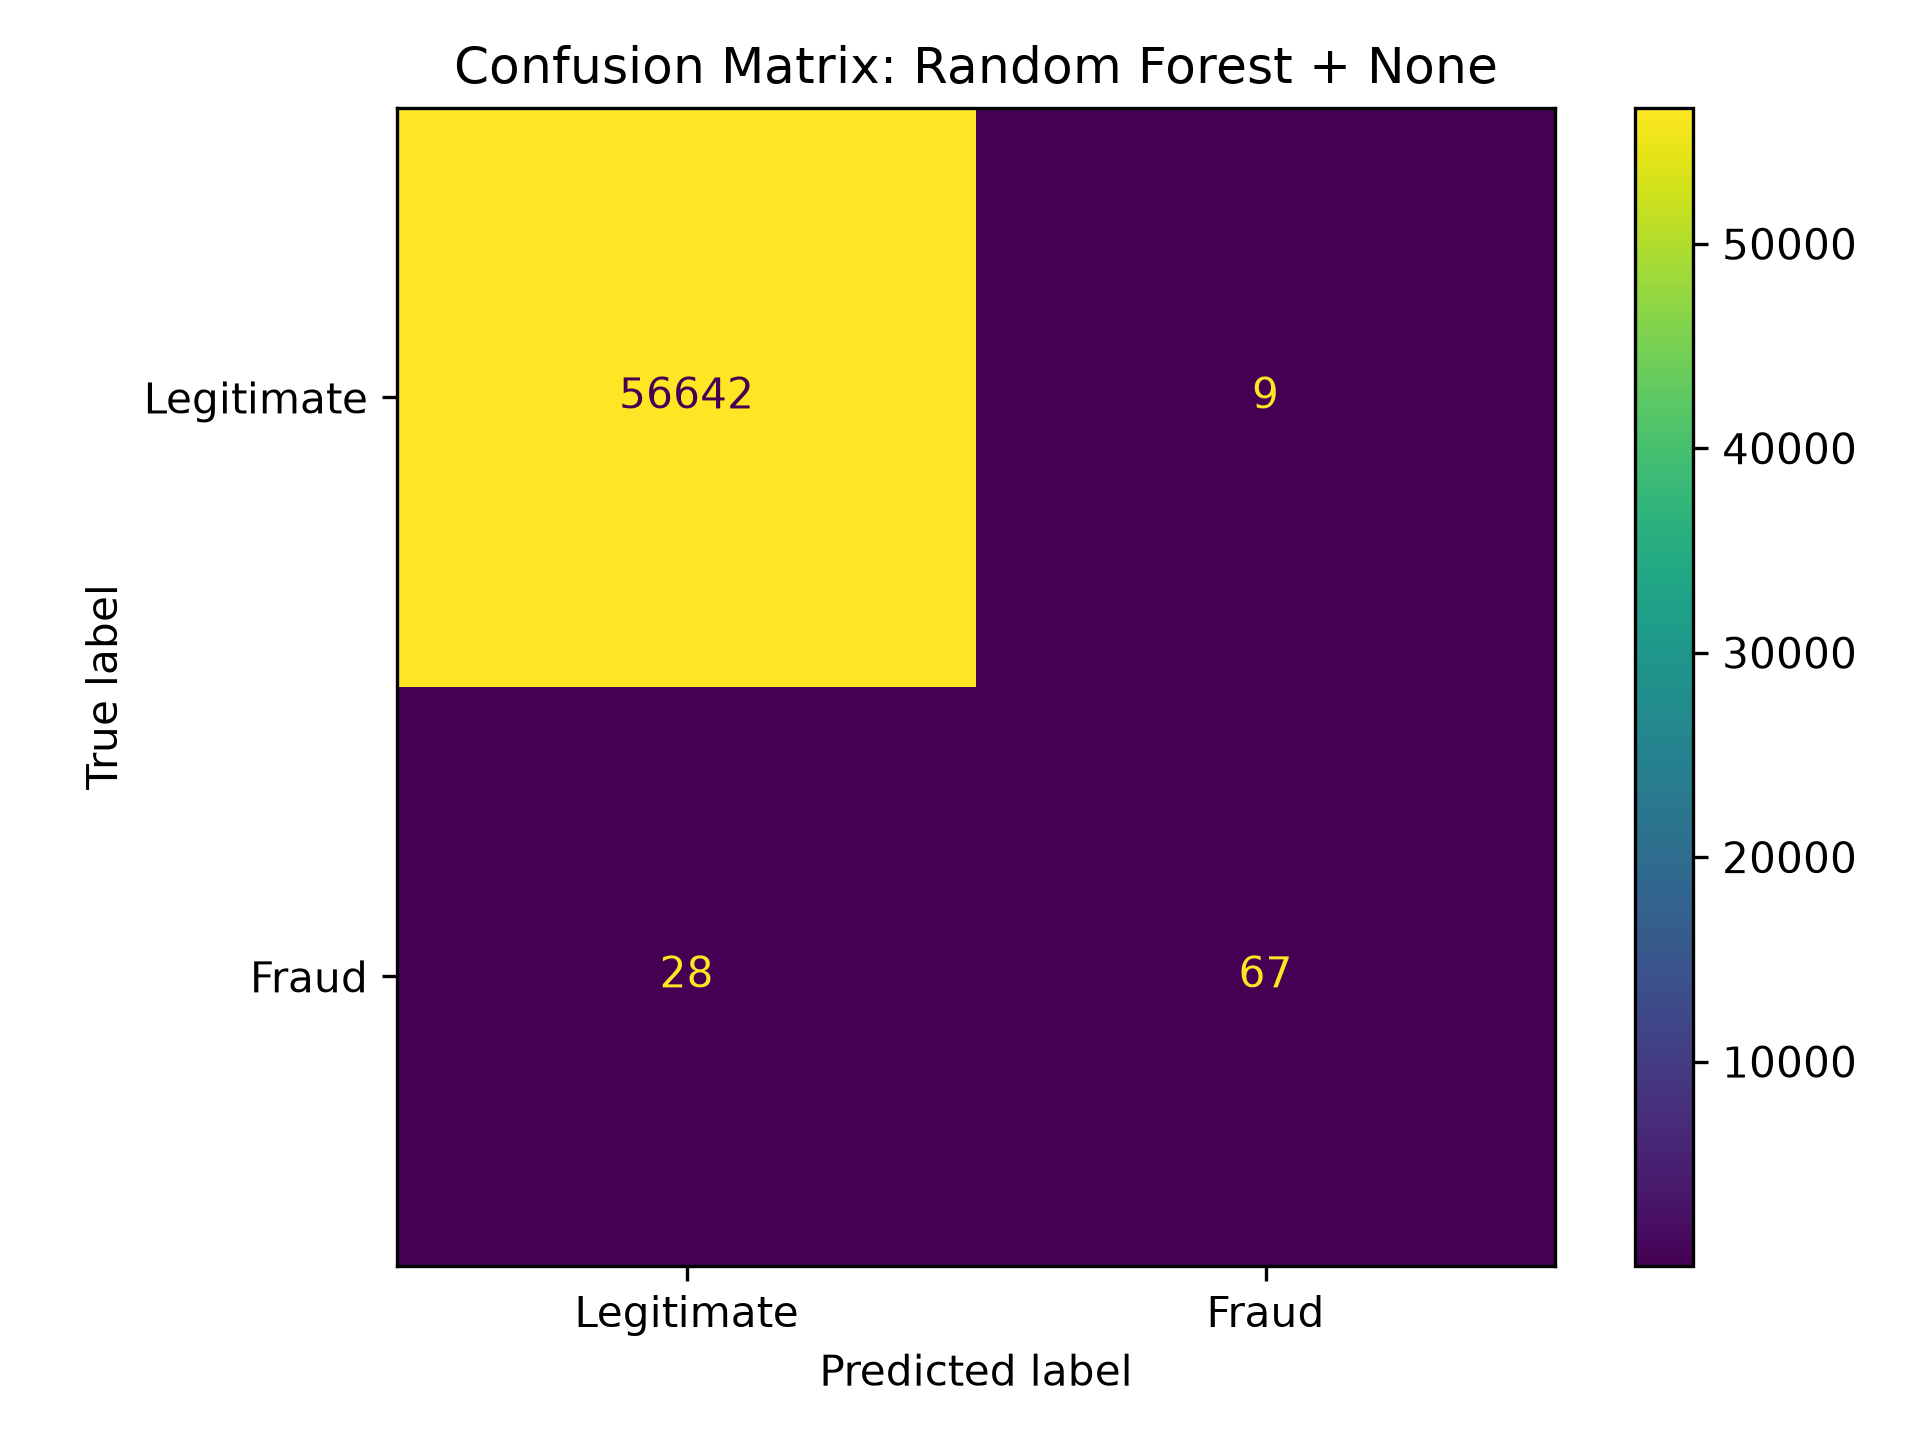
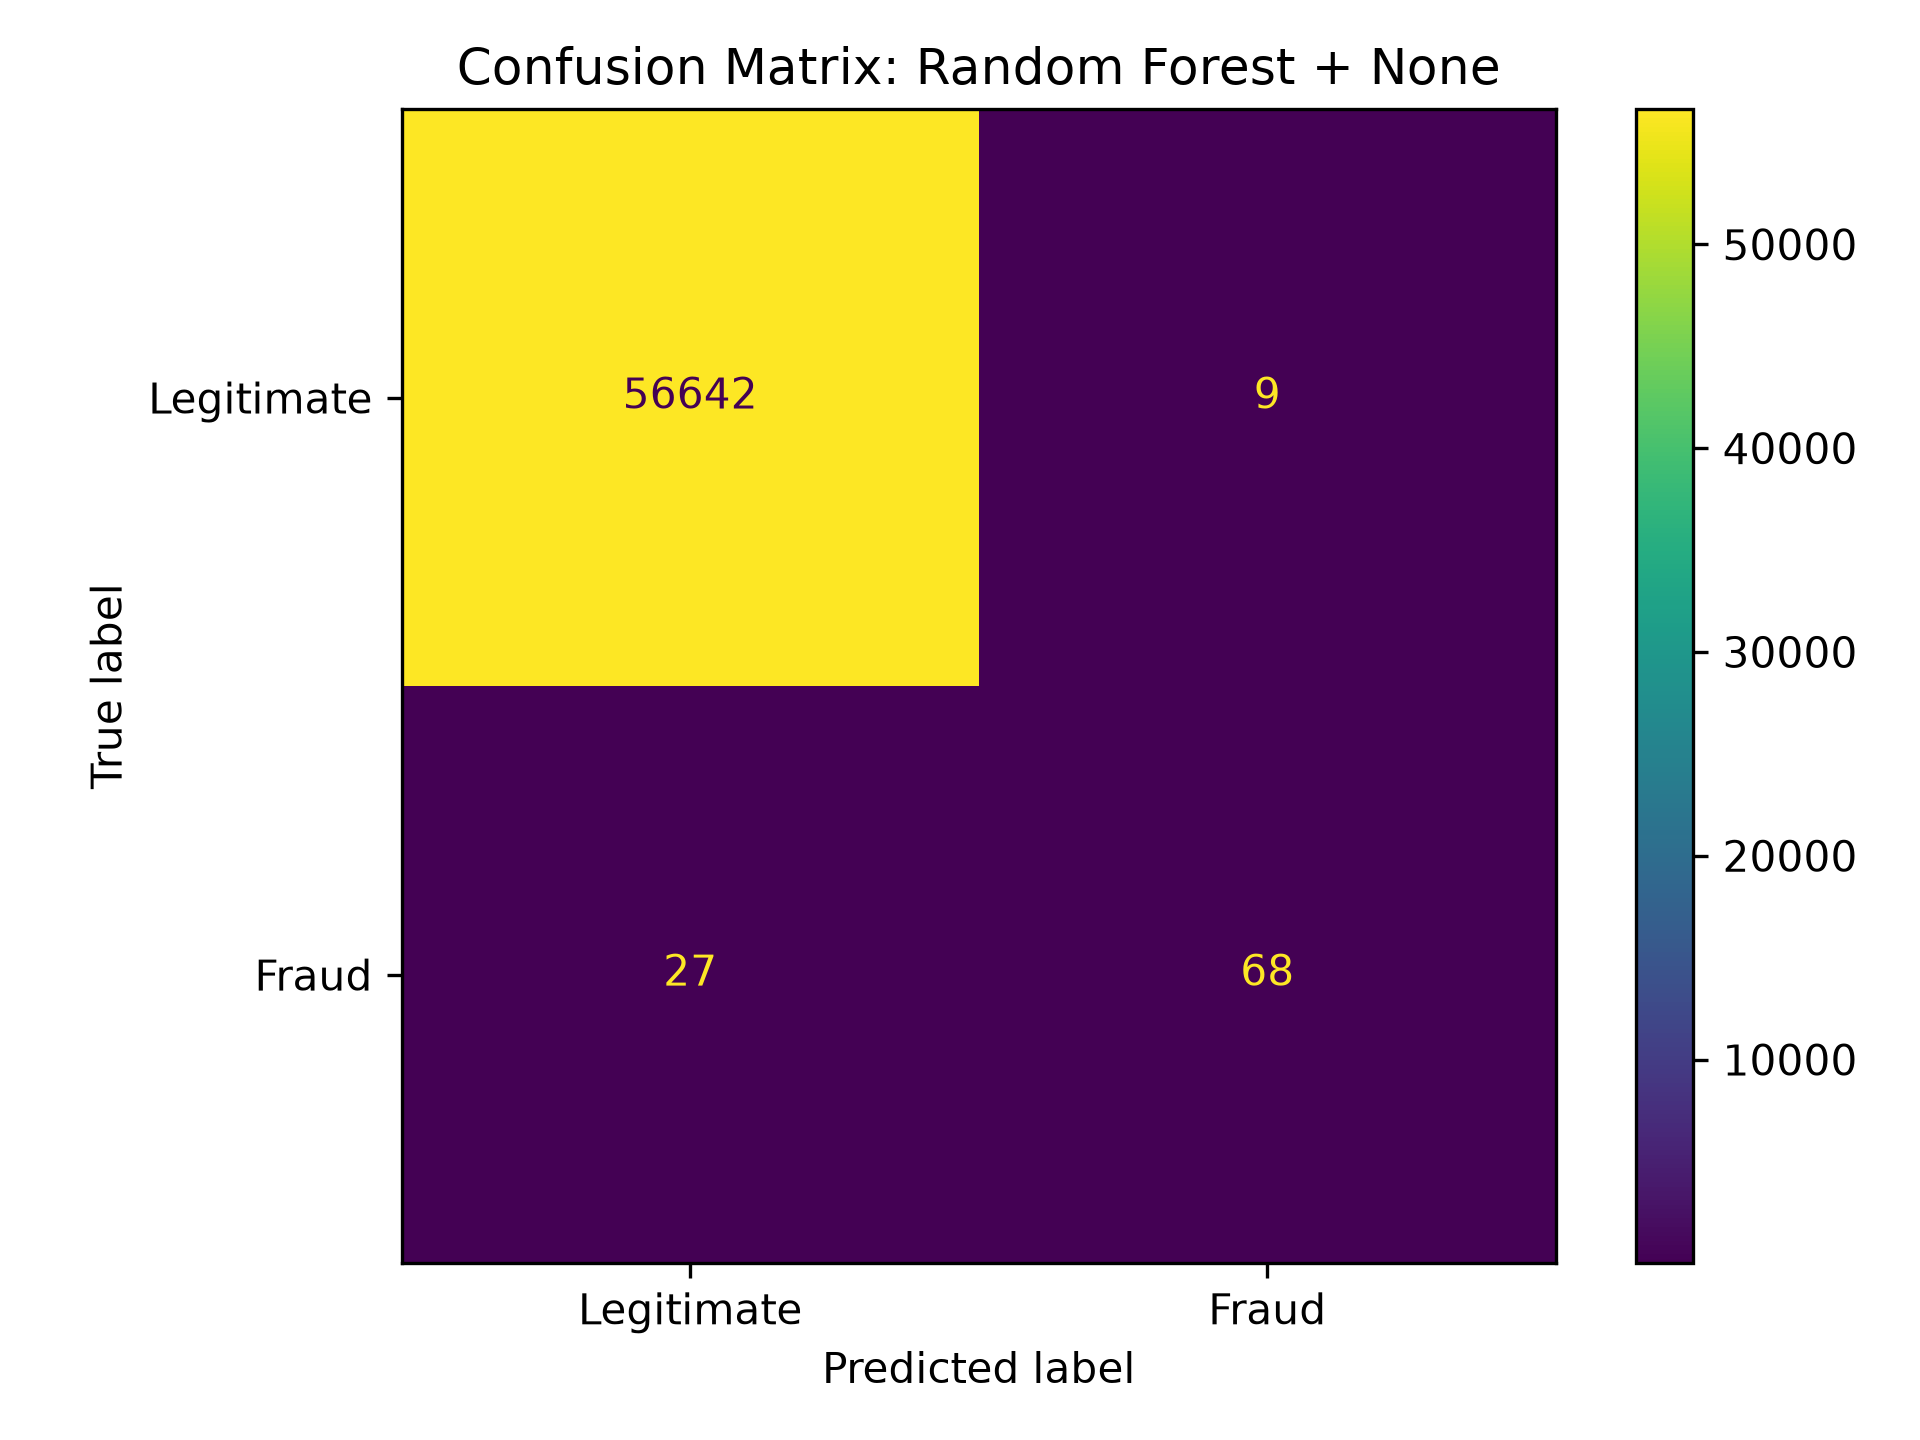
Audit fixes: RF confusion matrix uses max_depth=10 (68/27), README structure and app docs, VQC run-variation note, Findings counts derived from shown metrics

diff --git a/app/frontend/src/pages/Findings.tsx b/app/frontend/src/pages/Findings.tsx
@@ -47,8 +47,19 @@ export default function Findings() {
   const qv = data?.qsvm_vs_vqc.rows ?? [];
 
   const row = cq.find((r) => r["Model"] === model && r["Balancing"] === balancing);
-  const counts = cb.find((r) => r["Model"] === model && r["Balancing"] === balancing && String(r["Threshold"]).startsWith("Default"));
-  const noneCounts = cb.find((r) => r["Model"] === model && r["Balancing"] === "None" && String(r["Threshold"]).startsWith("Default"));
+  // Plain-number counts are derived from the same precision/recall the bars show, so the sentence can never
+  // disagree with them (the cost table's probability-thresholded counts differ by one for the SVM).
+  const anyCount = cb[0];
+  const positives = anyCount ? num(anyCount["TP"]) + num(anyCount["FN"]) : 0;
+  const negatives = anyCount ? num(anyCount["FP"]) + num(anyCount["TN"]) : 0;
+  const counts = (bal: string) => {
+    const r = cq.find((x) => x["Model"] === model && x["Balancing"] === bal);
+    if (!r || !positives || num(r["Precision"]) <= 0) return null;
+    const tp = Math.round(num(r["Recall"]) * positives);
+    return { tp, fn: positives - tp, fp: Math.round(tp * (1 / num(r["Precision"]) - 1)) };
+  };
+  const c = counts(balancing);
+  const cNone = counts("None");
 
   const headline = useMemo(() => {
     const best = (name: string) => Math.max(...cq.filter((r) => r["Model"] === name).map((r) => num(r["F1 Score"])), 0);
@@ -121,14 +132,14 @@ export default function Findings() {
                     { label: "ROC AUC", hint: "How well it ranks fraud above legitimate, whatever the cut-off.", value: num(row["ROC AUC"]) },
                   ]} />
                 )}
-                {counts && (
+                {c && (
                   <p className="story">
                     {MODELS.find((m) => m.value === model)?.label}, {BALANCING_TEXT[balancing]}: out of{" "}
-                    <strong>{num(counts["TP"]) + num(counts["FN"])}</strong> real frauds it caught <strong className="good">{num(counts["TP"])}</strong> and
-                    missed <strong className="bad">{num(counts["FN"])}</strong>. It also raised <strong>{num(counts["FP"]).toLocaleString("en-US")}</strong> false
-                    alarms on {(num(counts["FP"]) + num(counts["TN"])).toLocaleString("en-US")} legitimate transactions.
-                    {balancing !== "None" && noneCounts && num(counts["FP"]) > num(noneCounts["FP"]) * 3 && (
-                      <> Without balancing it raised only <strong>{num(noneCounts["FP"]).toLocaleString("en-US")}</strong>: more fraud caught, but at the price of far more false alarms for analysts to review.</>
+                    <strong>{positives}</strong> real frauds it caught <strong className="good">{c.tp}</strong> and
+                    missed <strong className="bad">{c.fn}</strong>. It also raised <strong>{c.fp.toLocaleString("en-US")}</strong> false
+                    alarms on {negatives.toLocaleString("en-US")} legitimate transactions.
+                    {balancing !== "None" && cNone && c.fp > cNone.fp * 3 && (
+                      <> Without balancing it raised only <strong>{cNone.fp.toLocaleString("en-US")}</strong>: more fraud caught, but at the price of far more false alarms for analysts to review.</>
                     )}
                   </p>
                 )}

diff --git a/app/backend/fraudscope/findings.py b/app/backend/fraudscope/findings.py
@@ -21,6 +21,9 @@ def load_findings() -> dict:
             TUNED_CAVEAT),
         "qsvm_vs_vqc": _table("novelty/qsvm_vs_vqc.csv", "matched 250-row class-enriched subset",
                               "This subset is 38% fraud (real-world rate is about 0.17%), so these numbers "
-                              "are not comparable to full-test-set numbers."),
+                              "are not comparable to full-test-set numbers. VQC training is not seeded, so its "
+                              "numbers move between runs: the paper's first run scored F1 0.67 / 0.64 / 0.54 "
+                              "(none / SMOTE / ADASYN); the rerun shown here scored 0.62 / 0.62 / 0.51. "
+                              "QSVM is deterministic and reproduces exactly."),
         "thresholds": _table("novelty/threshold_optimization.csv", "full test set (56,746 rows)", TUNED_CAVEAT),
     }

diff --git a/src/confusion_matrices.py b/src/confusion_matrices.py
@@ -84,8 +84,10 @@ def create_confusion_matrix(
 # RANDOM FOREST + NONE
 # =========================================================
 
+# Must match src/classical_models.py (max_depth=10) so this figure agrees with the results table.
 random_forest = RandomForestClassifier(
     n_estimators=100,
+    max_depth=10,
     random_state=42,
     n_jobs=-1
 )

diff --git a/README.md b/README.md
@@ -219,8 +219,8 @@ The project does not claim that the quantum model outperforms classical machine 
 ```text
 True Negatives  = 56,642
 False Positives = 9
-False Negatives = 28
-True Positives  = 67
+False Negatives = 27
+True Positives  = 68
 ```
 
 ### SVM + None
@@ -264,40 +264,29 @@ True Positives  = 70
 ```text
 hybrid-quantum-fraud-detection/
 |
-├── data/
-|   └── .gitkeep
+├── app/                         web app (see "Web app" below)
+|   ├── backend/                 FastAPI API
+|   |   ├── fraudscope/          API code: config, scoring, uploads, findings, routes
+|   |   ├── export/              retrain-and-verify scripts (the reproduction gate)
+|   |   └── artifacts/           exported models, sample table, results CSVs, provenance
+|   └── frontend/                React + Vite + TypeScript UI
 |
-├── results/
-|   ├── classical_results.csv
-|   ├── quantum_results.csv
-|   ├── quantum_predictions.csv
-|   ├── final_results.csv
-|   ├── model_comparison.png
-|   ├── precision_comparison.png
-|   ├── recall_comparison.png
-|   ├── roc_auc_comparison.png
-|   ├── training_time_comparison.png
-|   ├── random_forest_plus_none_confusion_matrix.png
-|   ├── svm_plus_none_confusion_matrix.png
-|   ├── vqc_none_confusion_matrix.png
-|   ├── vqc_smote_confusion_matrix.png
-|   └── vqc_adasyn_confusion_matrix.png
+├── data/                        processed CSVs (gitignored; creditcard.csv is not included)
+├── docs/superpowers/            web app design spec and implementation plan
 |
-├── src/
-|   ├── balancing.py
-|   ├── classical_models.py
-|   ├── confusion_matrices.py
-|   ├── final_results.py
-|   ├── preprocessing.py
-|   ├── quantum_data.py
-|   ├── quantum_final.py
-|   └── quantum_model.py
+├── results/                     baseline results, figures and predictions
+|   └── novelty/                 extension experiments: QSVM, thresholds, significance, cost-benefit
+├── src/                         research code
+|   └── novelty/                 extension experiments
 |
-├── eda.py
-├── test_dataset.py
-├── requirements.txt
-├── .gitignore
-└── README.md
+├── Hybrid_Quantum_Fraud_Detection_Paper.docx, QC_Paper.pdf, QC_Presentation.pptx   paper and slides
+├── build_paper.py               generates the paper .docx
+├── demo.py                      prints a results walkthrough
+├── eda.py, test_dataset.py      exploration and dataset check
+├── PHASES.md                    research phases and findings log
+├── STAGES.md                    web app build stages
+├── render.yaml                  backend deployment (Render)
+└── requirements.txt
 ```
 
 ## Implementation Workflow
@@ -448,22 +437,36 @@ Artificial Intelligence and Machine Learning
 
 This project is intended for educational and academic use.
 
-## Web app (in progress)
+## Web app
 
-A public demo app built on this research is being added under `app/` (FastAPI backend in `app/backend`, React frontend in `app/frontend`). Plan: `docs/superpowers/plans/2026-11-11-fraudscope-app.md`; progress: `STAGES.md`.
+**Nice Try** turns the research into a public demo: browse real test-set transactions scored by Random Forest, QSVM and VQC side by side, upload a small CSV, and read the findings as an interactive story. It does not claim quantum advantage; in this project's own results the classical Random Forest wins.
 
-Backend setup: `python3 -m venv .venv && .venv/bin/pip install -r requirements.txt fastapi uvicorn python-multipart`.
+- **Backend** (`app/backend`, FastAPI): loads exported models and a 250-row sample table at startup. Random Forest scores every row; QSVM and VQC run on a simulator and are capped to small uploads.
+- **Frontend** (`app/frontend`, React + Vite + TypeScript, `motion` for animation).
+- **Where the numbers come from:** the Findings page reads `results/` CSVs (copied to `app/backend/artifacts/results/`); nothing is typed in by hand.
 
-### Run the app locally
+### Run it locally
 ```
+python3 -m venv .venv && .venv/bin/pip install -r requirements.txt fastapi uvicorn python-multipart
 # terminal 1 (backend)
 cd app/backend && ../../.venv/bin/uvicorn fraudscope.main:app --port 8000
 # terminal 2 (frontend)
 cd app/frontend && npm install && npm run dev      # http://localhost:5173
 ```
-Artifacts in `app/backend/artifacts/` are produced by `python -m export.export_rf` and `python -m export.export_quantum` (run from `app/backend`); both refuse to save unless the retrained models reproduce the paper's results.
+
+### Rebuilding the model artifacts
+Run from `app/backend` (needs `data/*.csv`): `../../.venv/bin/python -m export.export_rf` and `-m export.export_quantum`, then `-m export.copy_results`. Both export scripts refuse to save unless the retrained models reproduce the paper:
+
+- Random Forest probabilities match `results/novelty/classical_predictions.csv` to 1e-6, and its metrics match `results/final_results.csv`.
+- QSVM labels on the 250-row matched subset are identical to the stored labels.
+- The VQC is a seeded re-run (the paper's weights were never saved and its training was not seeded); its full-test-set F1 and ROC AUC must fall within two standard deviations of the paper's five-seed spread.
+
+### Known accuracy notes
+- The sample set is the paper's matched, class-enriched subset (38% fraud), so it is labelled as such in the UI.
+- Best-F1 thresholds were tuned on the test labels, so the "tuned" results are optimistic; the app serves Random Forest at the default 0.5 threshold.
+- VQC training is not seeded: its matched-subset numbers move between runs (paper first run F1 0.67 / 0.64 / 0.54, rerun 0.62 / 0.62 / 0.51 for none / SMOTE / ADASYN). QSVM is deterministic.
 
 ### Deploying (free tier)
-- **Backend:** Render free web service from `render.yaml` (512 MB RAM, spins down after about 15 minutes idle; first request after sleep takes up to a minute). Set `ALLOWED_ORIGINS` to the frontend URL.
+- **Backend:** Render free web service from `render.yaml` (512 MB RAM, 0.1 CPU, spins down after about 15 minutes idle; the first request after sleep takes up to a minute). Set `ALLOWED_ORIGINS` to the frontend URL. Quantum row caps in `app/backend/fraudscope/config.py` were measured locally and must be re-measured on the host.
 - **Frontend:** Vercel Hobby (personal, non-commercial) with root directory `app/frontend` and env `VITE_API_URL` set to the Render URL. `vercel.json` rewrites client-side routes to `index.html`.
 - **Before a demo:** open the site a few minutes early; the landing page wakes the backend.

diff --git a/STAGES.md b/STAGES.md
@@ -14,7 +14,7 @@ Status: not started / in progress / done
 - [x] **Stage 6: Frontend scaffold + landing page** (done; visual check at 375px/1280px still to be eyeballed by the user, browser extension was not connected): Vite/React/TS, editorial style, cold-start banner.
 - [x] **Stage 7: Explore, Upload, Findings, About pages** (done; browser-based visual check still pending, extension not connected).
 - [x] **Stage 9: Restyle ("Nice Try", dark cosmic + motion)** (done, user-requested): replaces the editorial look; frontend only.
-- [~] **Stage 8: Hosting decision + deployment + live verification** (in progress: config written; branch pushed; waiting on user to create Render and Vercel accounts).
+- [~] **Stage 8: Hosting decision + deployment + live verification** (in progress: config written, branch pushed; still to do: Render and Vercel accounts, re-measure quantum speed on the host, live accuracy check).
 
 ## Notes
 - Python 3.14.7 in `.venv/` (gitignored); Node v24.16.0.
@@ -24,3 +24,10 @@ Status: not started / in progress / done
 - Stage 3 results: QSVM labels identical to paper on 250/250 rows; VQC re-run (seed 42) full-test F1 0.0220 and ROC AUC 0.7967, inside the paper 5-seed range; live VQC agrees with the paper stored label on 241/250 sample rows.
 - Stage 4 measured caps (local): QSVM 25 rows ~9.3s (cap 25), VQC 200 rows ~0.7s (cap 200); live timeout 20s (env LIVE_TIMEOUT_S). Task 8 re-measures on the host.
 - Stage 8 measurements: backend peak RSS ~193 MB after a live QSVM + 25-row quantum upload (Render free = 512 MB, 0.1 CPU). Hugging Face Docker Spaces need a paid plan to create, so Render is the free choice. 0.1 CPU is the risk: quantum latency must be re-measured on the host and caps lowered.
+
+## Audit (2026-11-11)
+- Backend artifacts vs `results/` CSVs: 13/13 checks pass (RF probabilities, metrics, confusion counts, sample table, stored VQC/QSVM outputs, provenance, findings).
+- Paper tables vs CSVs: Tables 2, 3, 5-11 match. Table 4's VQC rows are the paper's first run; the CSVs hold a rerun (VQC is unseeded). Documented in the paper and PHASES.md, and now noted on the Findings page.
+- Fixed: `src/confusion_matrices.py` trained the Random Forest without `max_depth=10`, so its figure, the README and `demo.py` showed 67 caught / 28 missed instead of 68 / 27. Script, figure, README and demo corrected.
+- Fixed: Findings page counts now derive from the metrics shown (SVM cost-table counts differ by one).
+- Open (needs the author): decide whether to commit the untracked/modified paper files; confirm whether Table 4 should show the rerun values.
